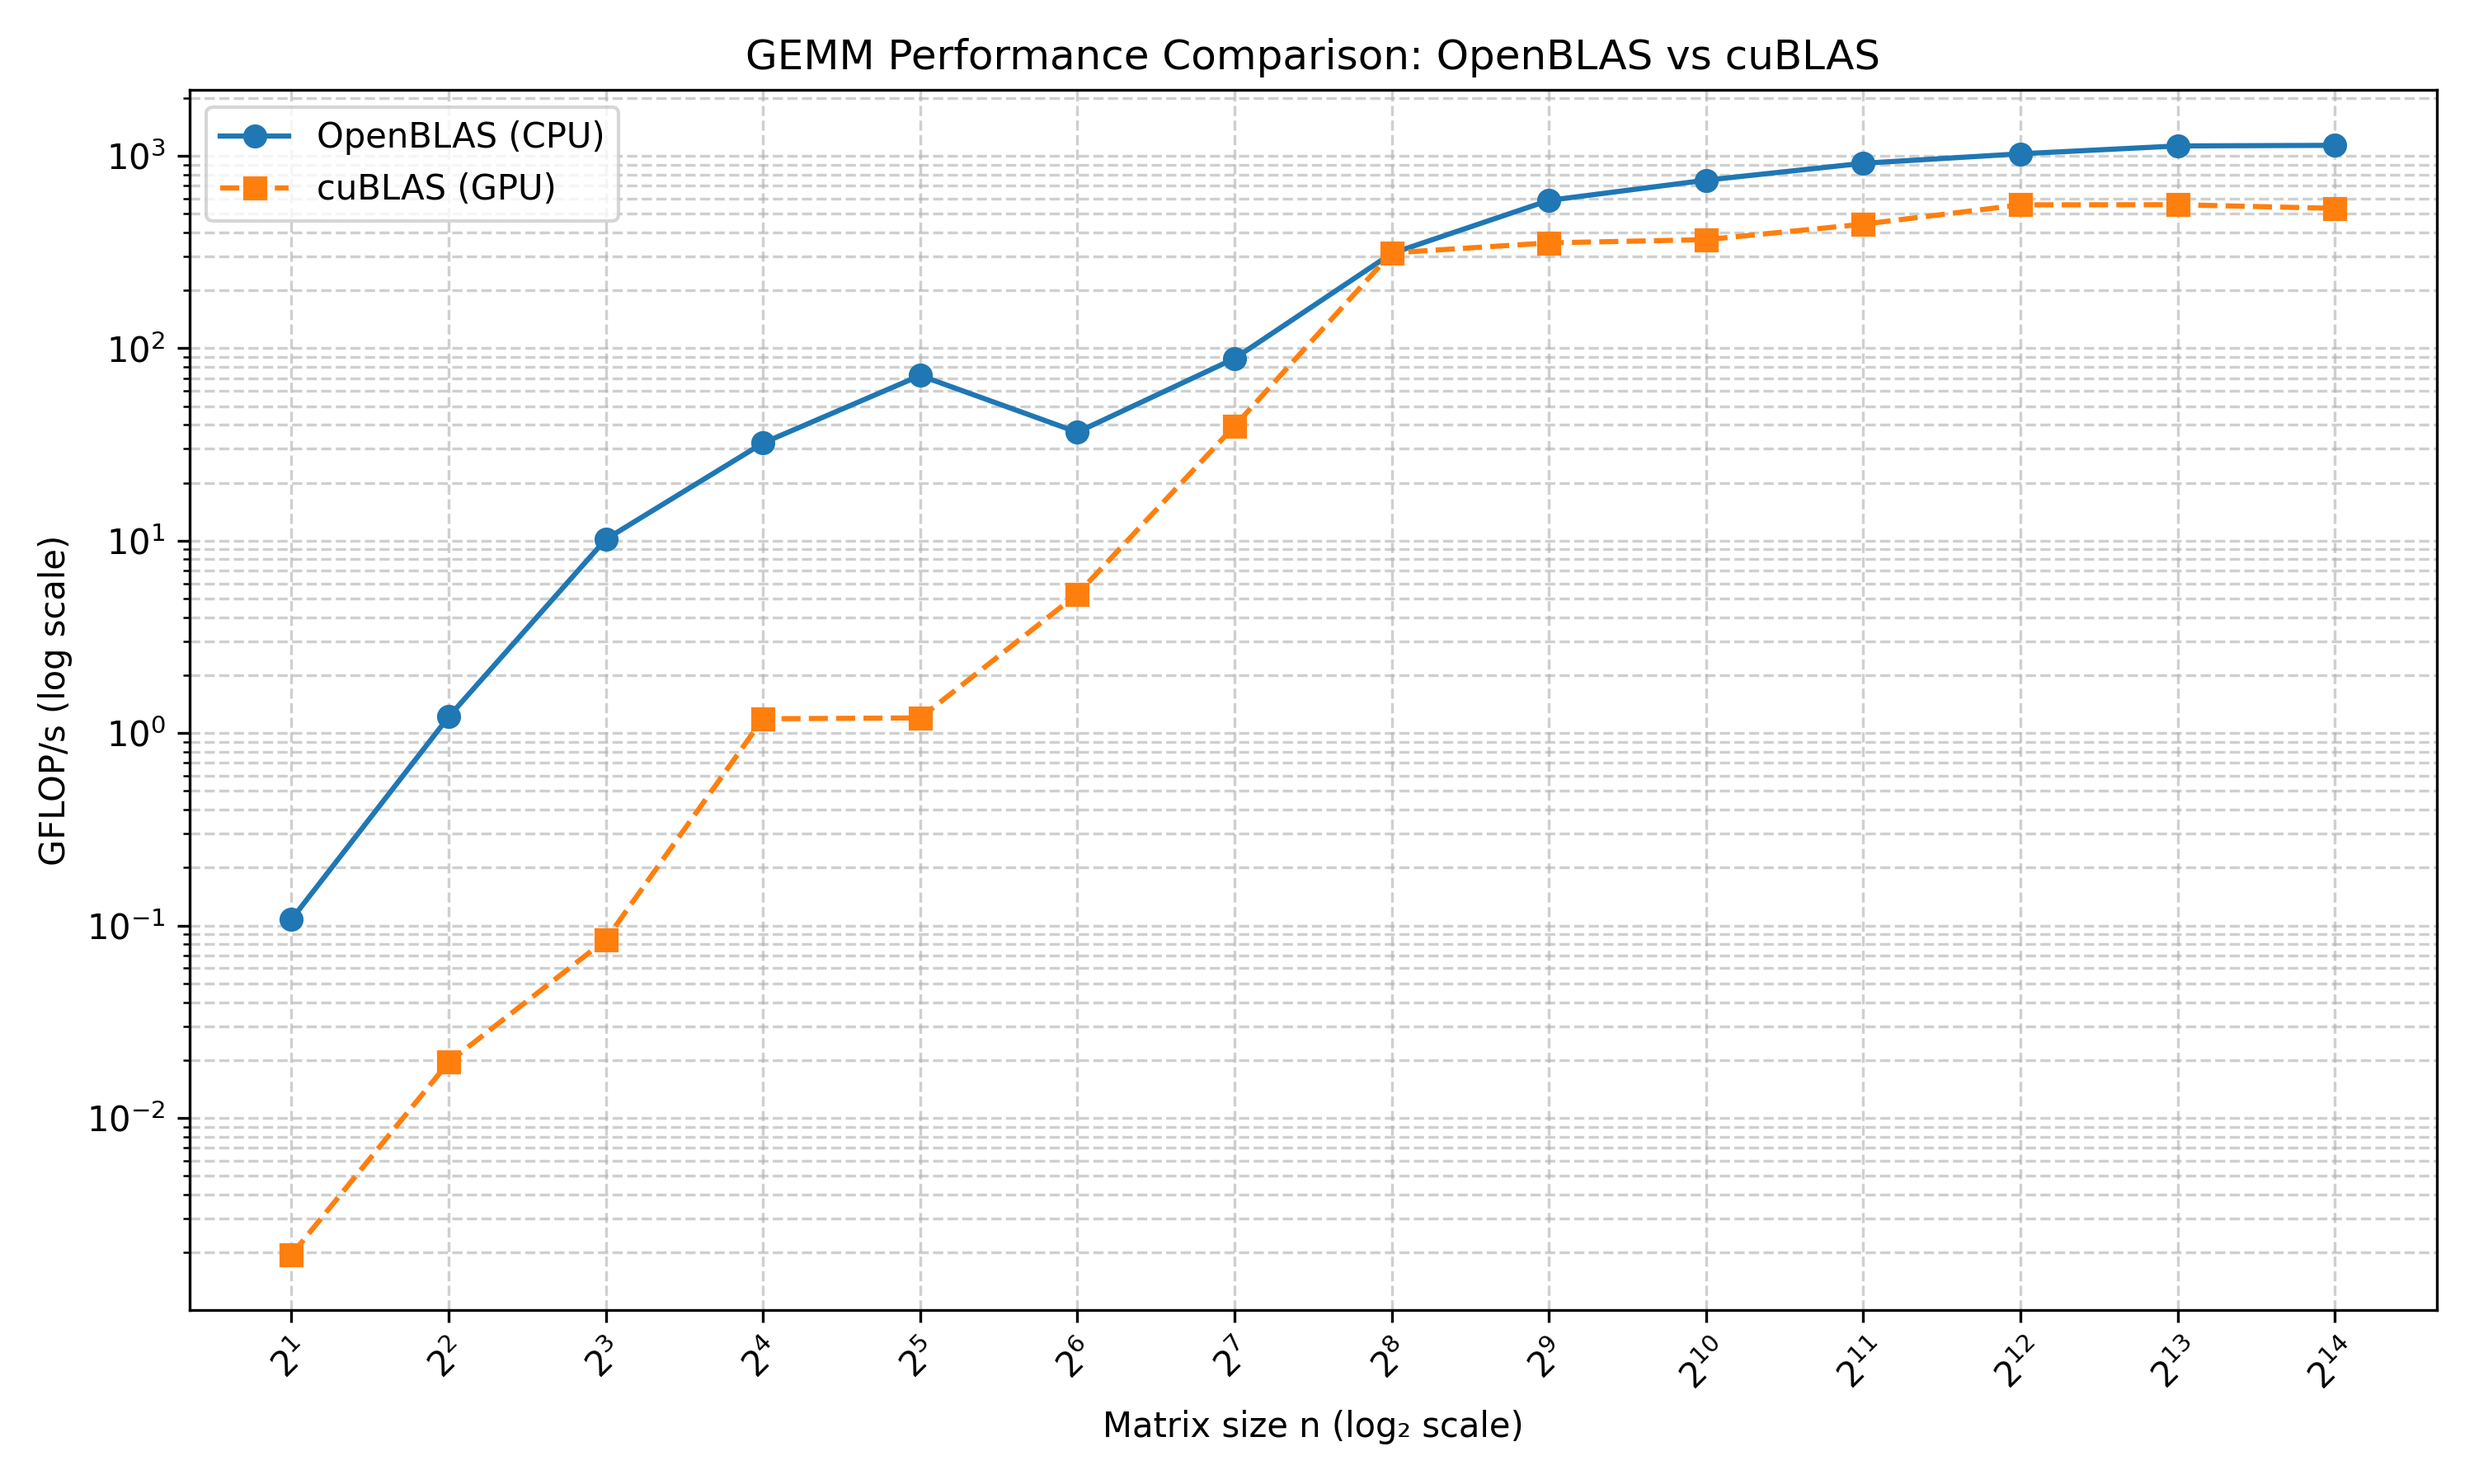
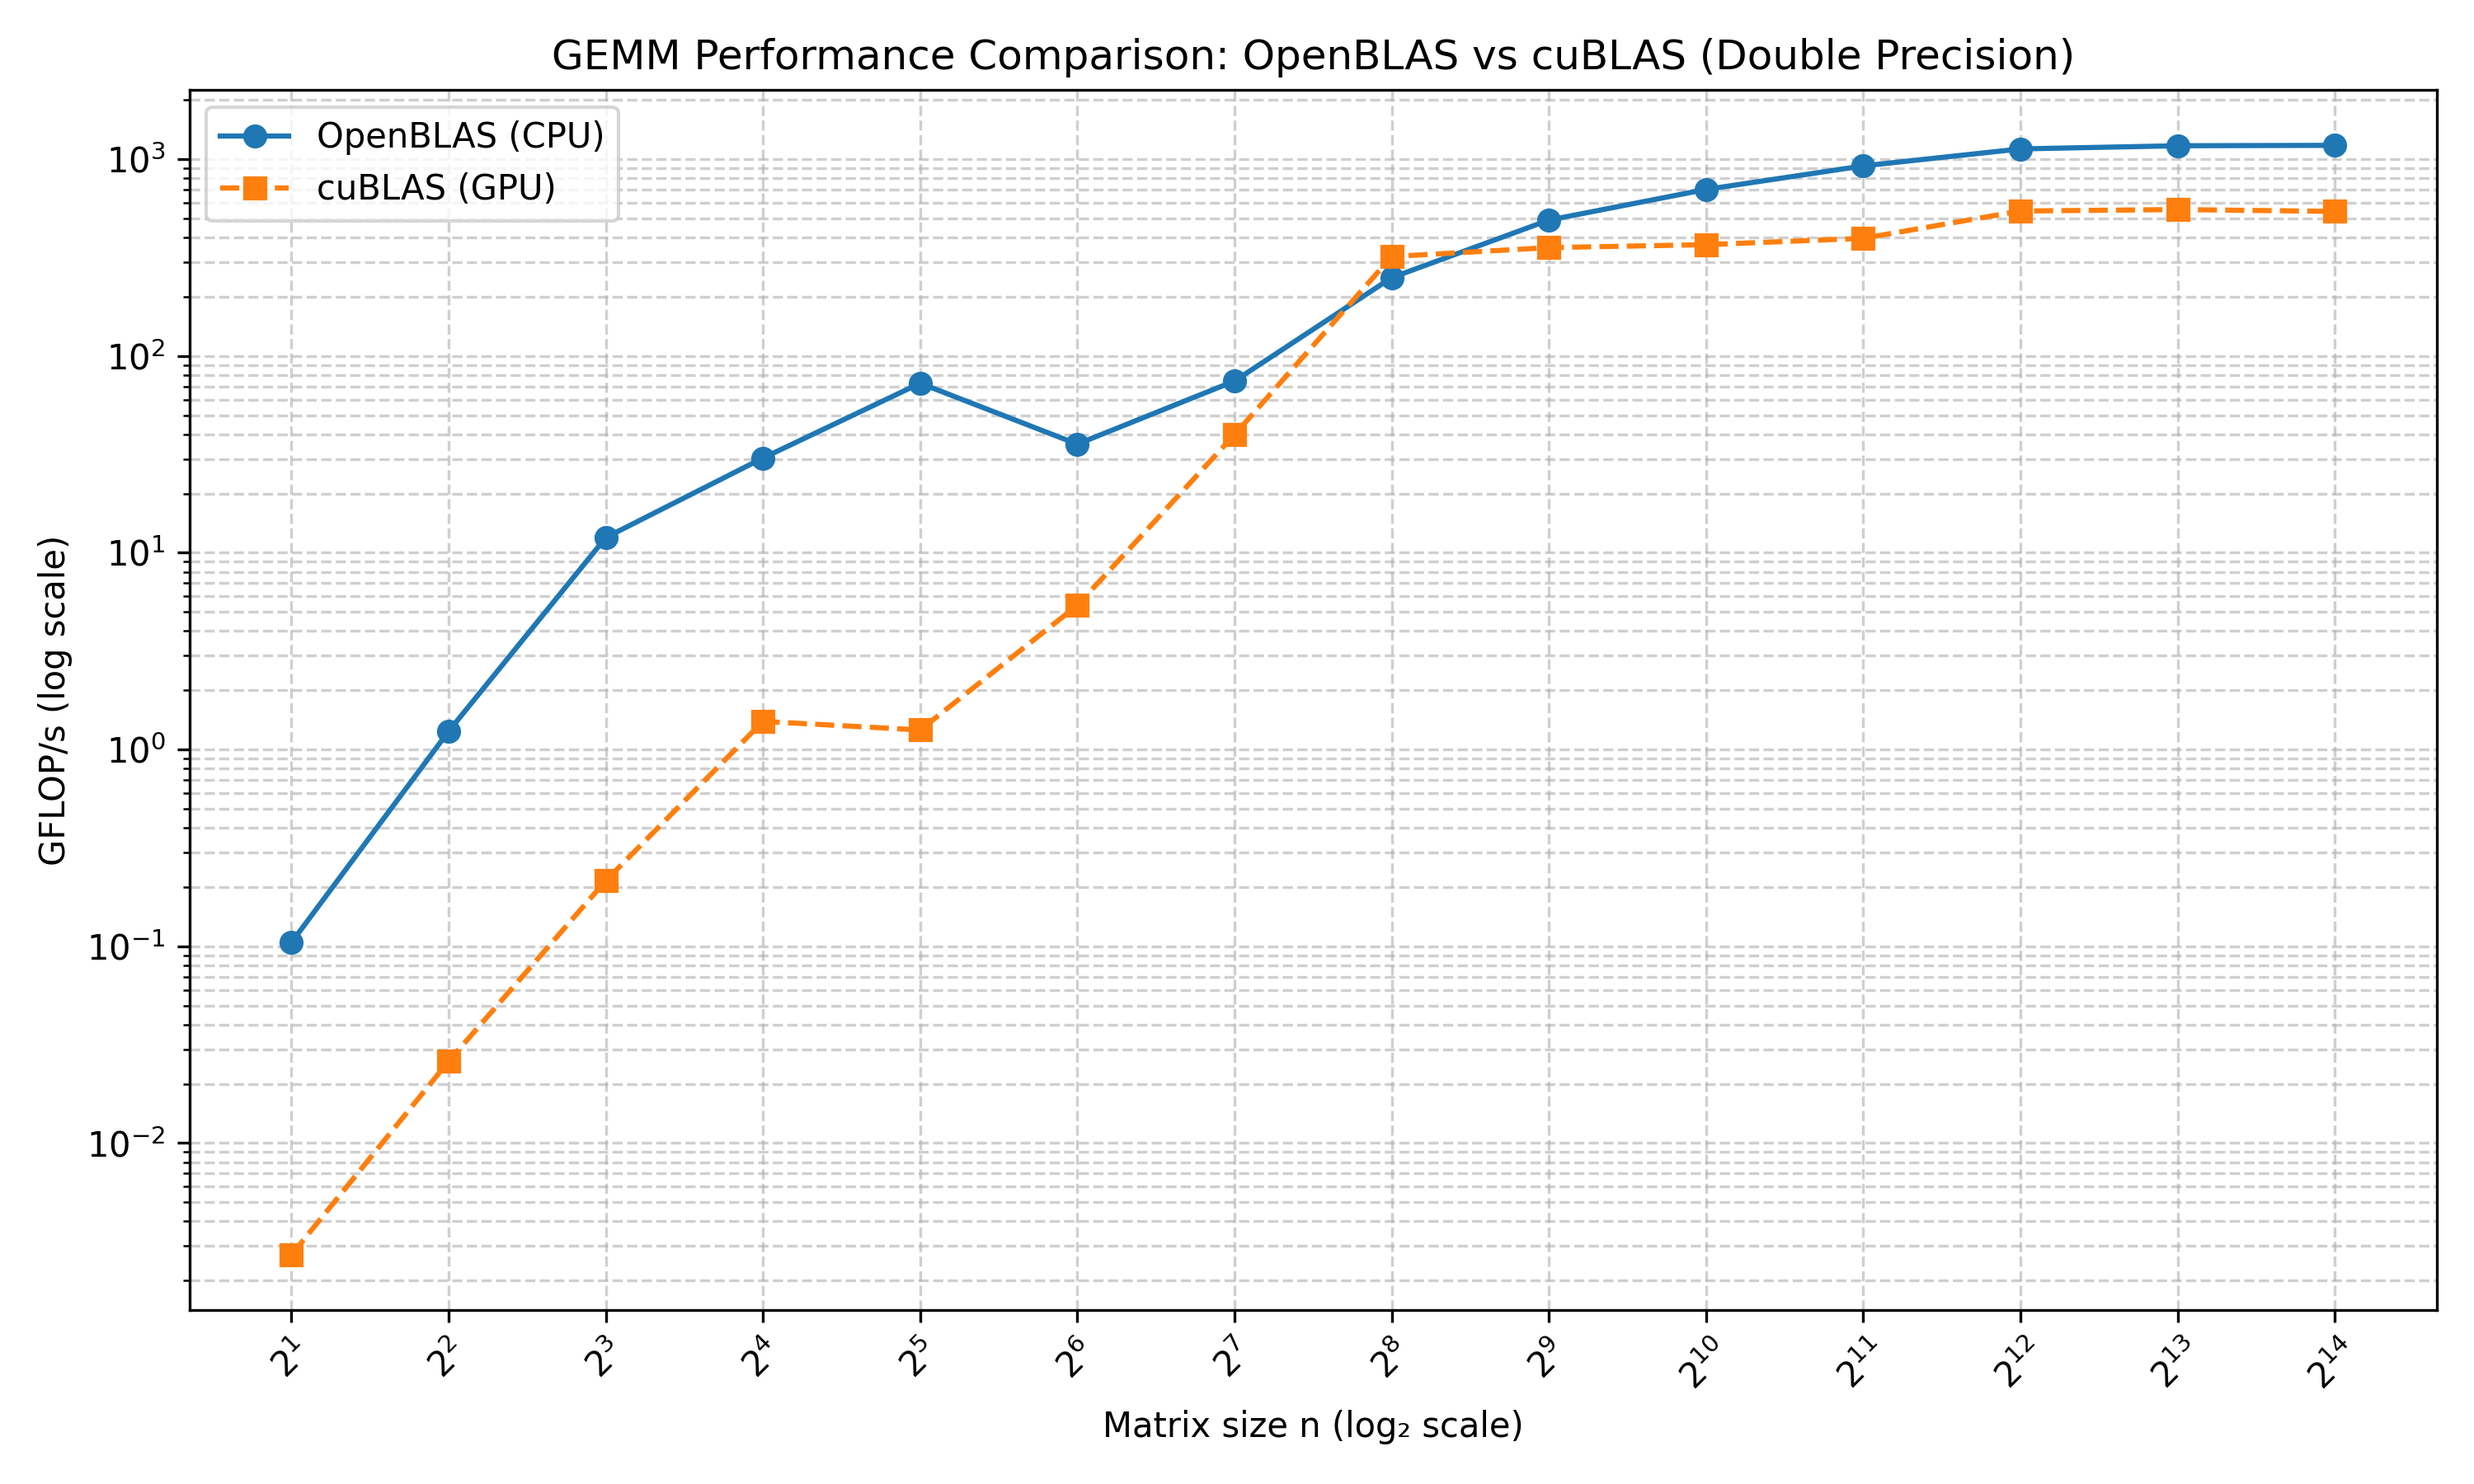
Changed double precision to single precision for GPU performance test. Then Changed back to double precision for requirement

diff --git a/HW/HW7/Problem 3/p3.cpp b/HW/HW7/Problem 3/p3.cpp
@@ -1,4 +1,3 @@
-// zgemm_compare_openblas_cublas.cpp
 #include <iostream>
 #include <vector>
 #include <cstdlib>
@@ -9,32 +8,31 @@
 #include <cuda_runtime.h>
 #include <cublas_v2.h>
 
-#define CHECK_CUDA(call)                                                 \
-    do {                                                                 \
-        cudaError_t err = (call);                                        \
-        if (err != cudaSuccess) {                                        \
+#define CHECK_CUDA(call) \
+    do { \
+        cudaError_t err = (call); \
+        if (err != cudaSuccess) { \
             std::cerr << "CUDA error at " << __FILE__ << ":" << __LINE__ \
-                      << " code=" << err << " \""                        \
-                      << cudaGetErrorString(err) << "\"" << std::endl;   \
-            std::exit(EXIT_FAILURE);                                     \
-        }                                                                \
+                      << " code=" << err << " \"" \
+                      << cudaGetErrorString(err) << "\"" << std::endl; \
+            std::exit(EXIT_FAILURE); \
+        } \
     } while (0)
 
-#define CHECK_CUBLAS(call)                                               \
-    do {                                                                 \
-        cublasStatus_t status = (call);                                  \
-        if (status != CUBLAS_STATUS_SUCCESS) {                           \
-            std::cerr << "cuBLAS error at " << __FILE__ << ":"           \
-                      << __LINE__ << " code=" << status << std::endl;    \
-            std::exit(EXIT_FAILURE);                                     \
-        }                                                                \
+#define CHECK_CUBLAS(call) \
+    do { \
+        cublasStatus_t status = (call); \
+        if (status != CUBLAS_STATUS_SUCCESS) { \
+            std::cerr << "cuBLAS error at " << __FILE__ << ":" \
+                      << __LINE__ << " code=" << status << std::endl; \
+            std::exit(EXIT_FAILURE); \
+        } \
     } while (0)
 
 int main() {
     const int ntrial = 3;
     const double alpha = 1.0, beta = 0.0;
 
-    // Create cuBLAS handle once
     cublasHandle_t handle;
     CHECK_CUBLAS(cublasCreate(&handle));
 
@@ -44,16 +42,13 @@ int main() {
         size_t size = size_t(n) * n;
         size_t bytes = size * sizeof(double);
 
-        // host allocations
         std::vector<double> A(size), B(size), C(size, 0.0);
-        // initialize A, B
         for (size_t i = 0; i < size; ++i) {
             A[i] = drand48();
             B[i] = drand48();
         }
 
-        // ---- OpenBLAS timing ----
-        // warm-up
+        // OpenBLAS: warm-up
         cblas_dgemm(
             CblasColMajor, CblasNoTrans, CblasNoTrans,
             n, n, n,
@@ -63,7 +58,8 @@ int main() {
             beta,
             C.data(), n
         );
-        // timed runs
+
+        // OpenBLAS timing
         auto t0 = std::chrono::high_resolution_clock::now();
         for (int rep = 0; rep < ntrial; ++rep) {
             cblas_dgemm(
@@ -80,24 +76,21 @@ int main() {
         double elapsed_cpu = std::chrono::duration<double>(t1 - t0).count() / ntrial;
         double gflops_cpu = (2.0 * double(n)*n*n) / (elapsed_cpu * 1e9);
 
-        // ---- cuBLAS timing ----
+        // Allocate GPU memory
         double *d_A = nullptr, *d_B = nullptr, *d_C = nullptr;
         CHECK_CUDA(cudaMalloc(&d_A, bytes));
         CHECK_CUDA(cudaMalloc(&d_B, bytes));
         CHECK_CUDA(cudaMalloc(&d_C, bytes));
 
-        // copy once
         CHECK_CUDA(cudaMemcpy(d_A, A.data(), bytes, cudaMemcpyHostToDevice));
         CHECK_CUDA(cudaMemcpy(d_B, B.data(), bytes, cudaMemcpyHostToDevice));
         CHECK_CUDA(cudaMemset(d_C, 0, bytes));
 
-        // events for timing
         cudaEvent_t start, stop;
         CHECK_CUDA(cudaEventCreate(&start));
         CHECK_CUDA(cudaEventCreate(&stop));
 
-        // warm-up
-        CHECK_CUDA(cudaEventRecord(start));
+        // Warm-up run
         CHECK_CUBLAS(cublasDgemm(
             handle,
             CUBLAS_OP_N, CUBLAS_OP_N,
@@ -108,10 +101,8 @@ int main() {
             &beta,
             d_C, n
         ));
-        CHECK_CUDA(cudaEventRecord(stop));
-        CHECK_CUDA(cudaEventSynchronize(stop));
 
-        // timed runs
+        // Timed loop
         CHECK_CUDA(cudaEventRecord(start));
         for (int rep = 0; rep < ntrial; ++rep) {
             CHECK_CUBLAS(cublasDgemm(
@@ -130,17 +121,15 @@ int main() {
 
         float ms = 0.0f;
         CHECK_CUDA(cudaEventElapsedTime(&ms, start, stop));
-        double elapsed_gpu = (ms / 1e3) / ntrial;            // seconds
-        double gflops_gpu = (2.0 * double(n)*n*n) / (elapsed_gpu * 1e9);
+        double elapsed_gpu = (ms / 1e3) / ntrial;
+        double gflops_gpu = (2.0 * double(n)*n*n + 2.0 * double(n)*n) / (elapsed_gpu * 1e9);
 
-        // cleanup
         cudaEventDestroy(start);
         cudaEventDestroy(stop);
         cudaFree(d_A);
         cudaFree(d_B);
         cudaFree(d_C);
 
-        // print
         std::cout
             << n << ","
             << gflops_cpu << ","

diff --git a/HW/HW7/Problem 3/plot_gemm_perf.py b/HW/HW7/Problem 3/plot_gemm_perf.py
@@ -20,7 +20,7 @@ plt.yscale('log')
 plt.xticks(n, rotation=45)
 plt.xlabel("Matrix size n (log₂ scale)")
 plt.ylabel("GFLOP/s (log scale)")
-plt.title("GEMM Performance Comparison: OpenBLAS vs cuBLAS")
+plt.title("GEMM Performance Comparison: OpenBLAS vs cuBLAS (Double Precision)")
 plt.grid(True, which='both', linestyle='--', alpha=0.6)
 plt.legend()
 plt.tight_layout()
